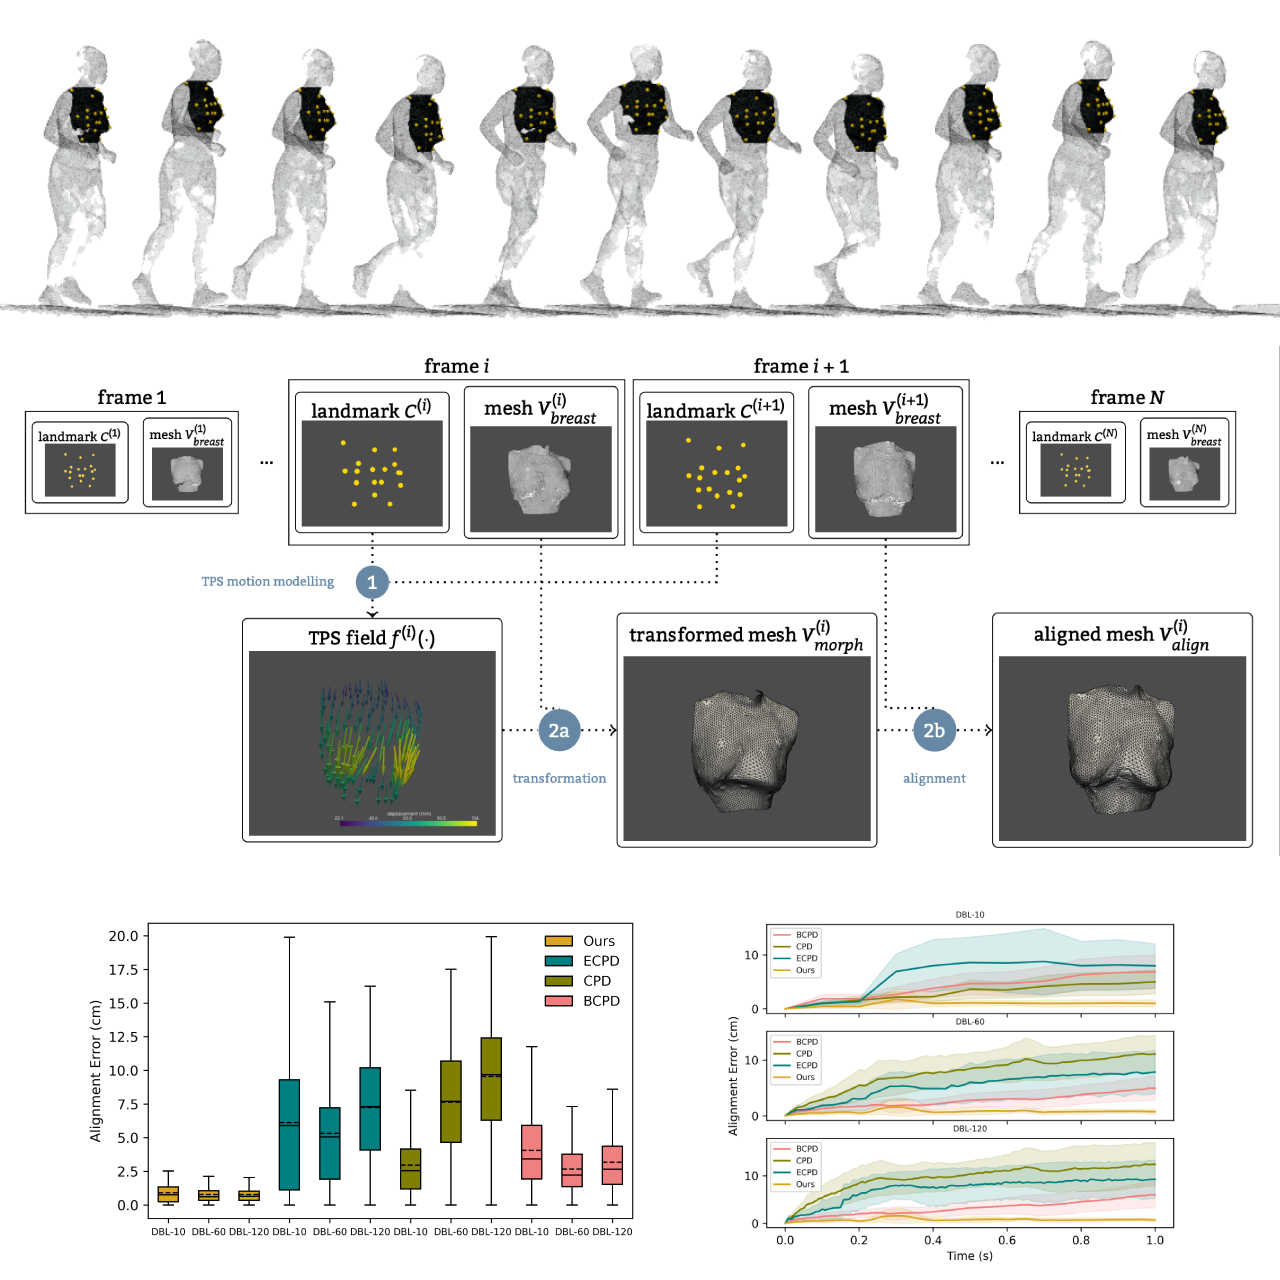
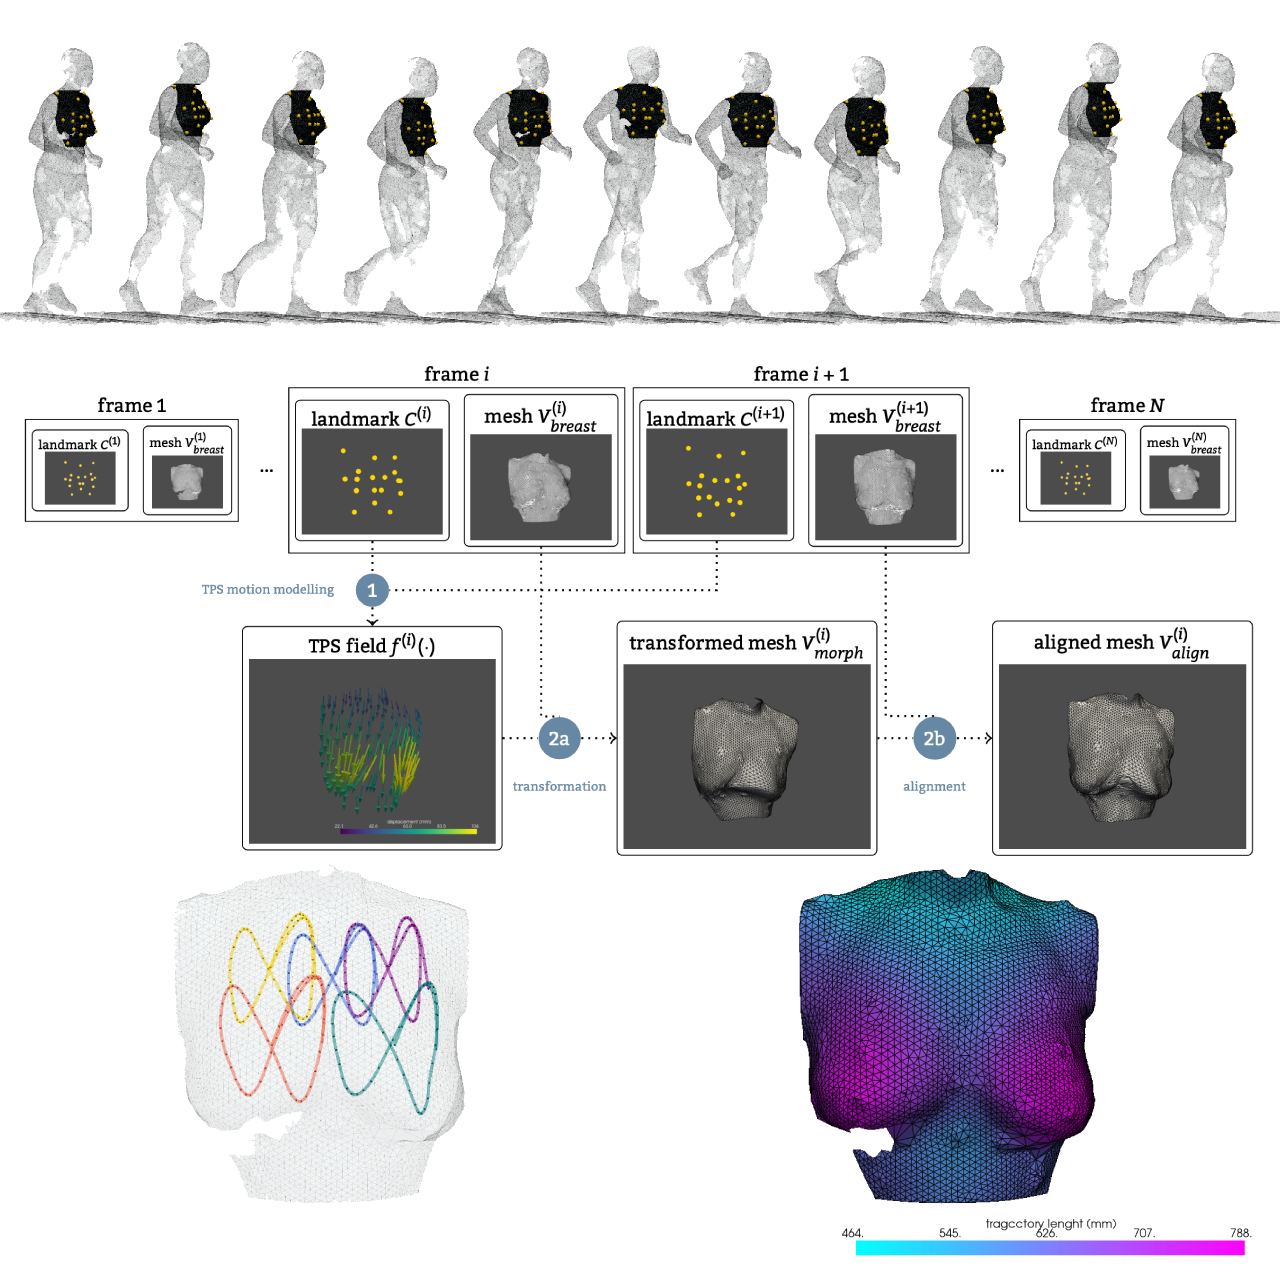
update cover of rbf-dense-track

diff --git a/contents/paper/2023-rbf-dense-track.md b/contents/paper/2023-rbf-dense-track.md
@@ -11,7 +11,7 @@ abstract: "Under review"
 
 ## Graphical abstract
 
-![img](https://github.com/TOB-KNPOB/code2023-rbf-dense-track/blob/main/graphic/workflow.png?raw=true)
+![img](/cover/paper/2023-rbf-dense-track.png)
 
 ## `DynaBreastLite` dataset
 
